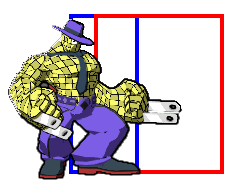
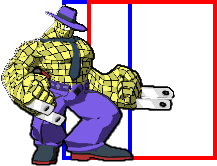
Add grid images and frame data
also add latch half crouch and fix latch swing image

diff --git a/main.js b/main.js
@@ -174,6 +174,12 @@ var characterJSON = {
         "hitboxes":[],
       },
       {
+        "name": "halfcrouch",
+        "imgSize": [169, 120],
+        "hurtboxes":[[39, 0, 80, 96]],
+        "hitboxes":[],
+      },
+      {
         "name": "crouch",
         "imgSize": [155, 82],
         "hurtboxes":[[26, 5, 80, 60]],
@@ -434,47 +440,95 @@ var characterJSON = {
     "color": "yellow",
     "strokeColor": "mediumpurple",
     "img_name": "grid",
-    "baseHeight": 136,
+    "baseHeight": 160,
     "poses": [
       {
         "name": "swing",
-        "imgSize": [242, 180],
-        "hurtboxes": [[0, 0, 242, 180]],
-        "hitboxes": [[0, 0, 242, 180]]
-      }
+        "imgSize": [217, 166],
+        "hurtboxes": [[62, 0, 70, 160]],
+        "hitboxes": [[87, 0, 130, 160]],
+      },
+      {
+        "name": "smash",
+        "imgSize": [222, 252],
+        "hurtboxes": [[67, 92, 70, 160]],
+        "hitboxes": [[47, 0, 110, 90],[92, 92, 130, 160]],
+      },
+      {
+        "name": "spike",
+        "imgSize": [122, 260],
+        "hurtboxes": [[26, 0, 70, 160]],
+        "hitboxes": [[1, 90, 120, 170]],
+      },
+      {
+        "name": "bunt",
+        "imgSize": [201, 210],
+        "hurtboxes": [[46, 40, 70, 160]],
+        "hitboxes": [[116, 0, 85, 80],[71, 80, 130, 120]],
+      },
+      {
+        "name": "grab",
+        "imgSize": [232, 169],
+        "hurtboxes": [[66, 2, 70, 160]],
+        "hitboxes": [[91, 2, 130, 160]],
+      },
+      {
+        "name": "stand",
+        "imgSize": [163, 191],
+        "hurtboxes": [[20, 7, 70, 160]],
+        "hitboxes": [],
+      },
+      {
+        "name": "halfcrouch",
+        "imgSize": [160, 224],
+        "hurtboxes": [[35, 58, 70, 80]],
+        "hitboxes": [],
+      },
+      {
+        "name": "crouch",
+        "imgSize": [176, 186],
+        "hurtboxes": [[52, 48, 70, 80]],
+        "hitboxes": [],
+      },
+      {
+        "name": "lay",
+        "imgSize": [210, 89],
+        "hurtboxes": [[6, 1, 160, 45]],
+        "hitboxes": [],
+      },
     ],
     "angles": [
       {
         "name": "up",
         "degrees": -50,
-        "validWhen": ["swing"]
+        "validWhen": ["swing"],
       },
       {
         "name": "ground-down",
         "degrees": 50,
-        "validWhen": ["swing"]
+        "validWhen": ["swing"],
       },
       {
         "name": "smash",
         "degrees": 28,
-        "validWhen": ["swing"],
+        "validWhen": ["smash"],
         "customOffset": 110,
       },
       {
         "name": "air-down",
         "degrees": 15,
-        "validWhen": ["swing"]
+        "validWhen": ["swing"],
       },
       {
         "name": "spike-forward",
         "degrees": 32,
-        "validWhen": ["swing"],
+        "validWhen": ["spike"],
         "customOffset": 70,
       },
       {
         "name": "spike-backward",
         "degrees": 117,
-        "validWhen": ["swing"]
+        "validWhen": ["spike"],
       }
     ]
   },
